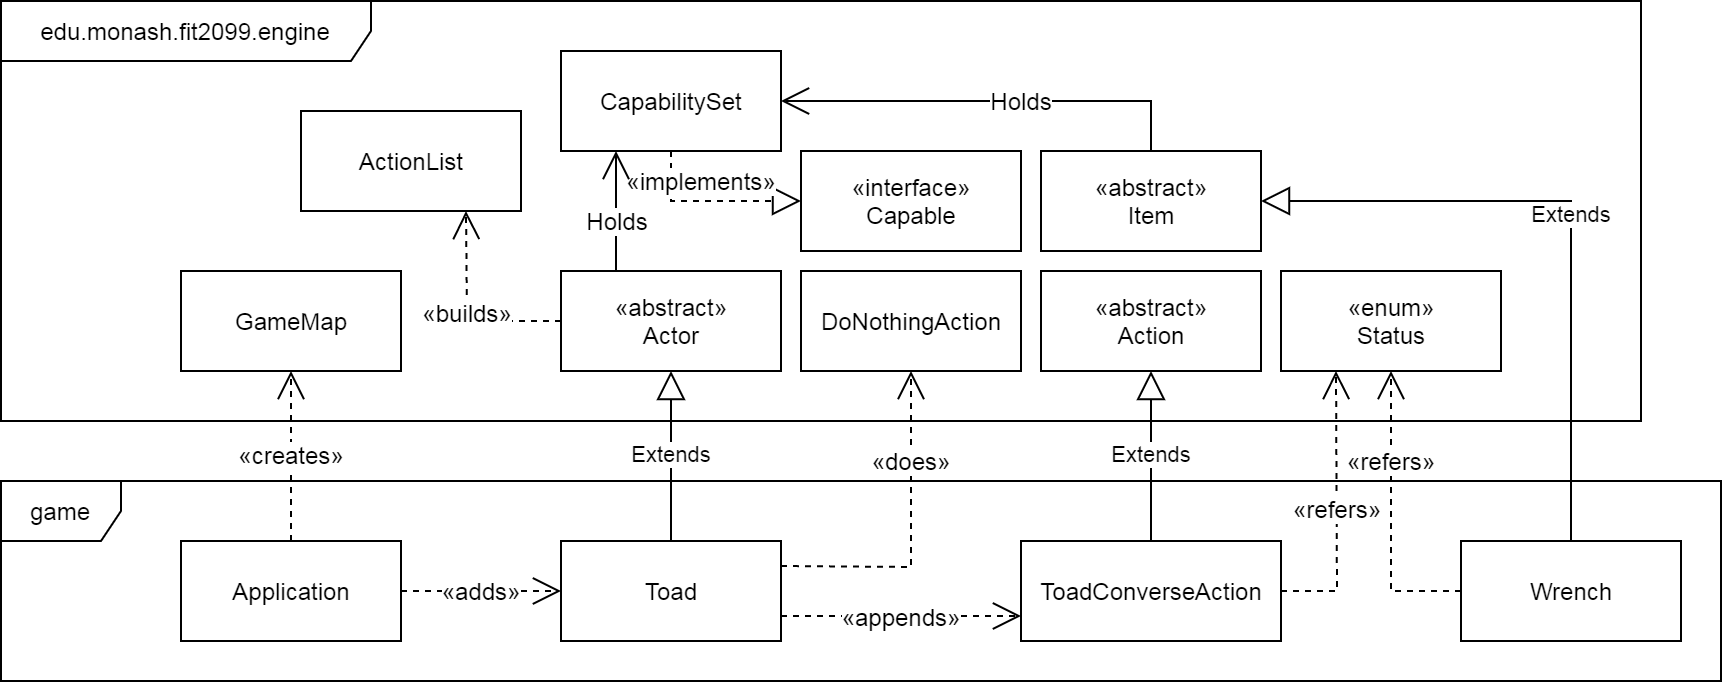
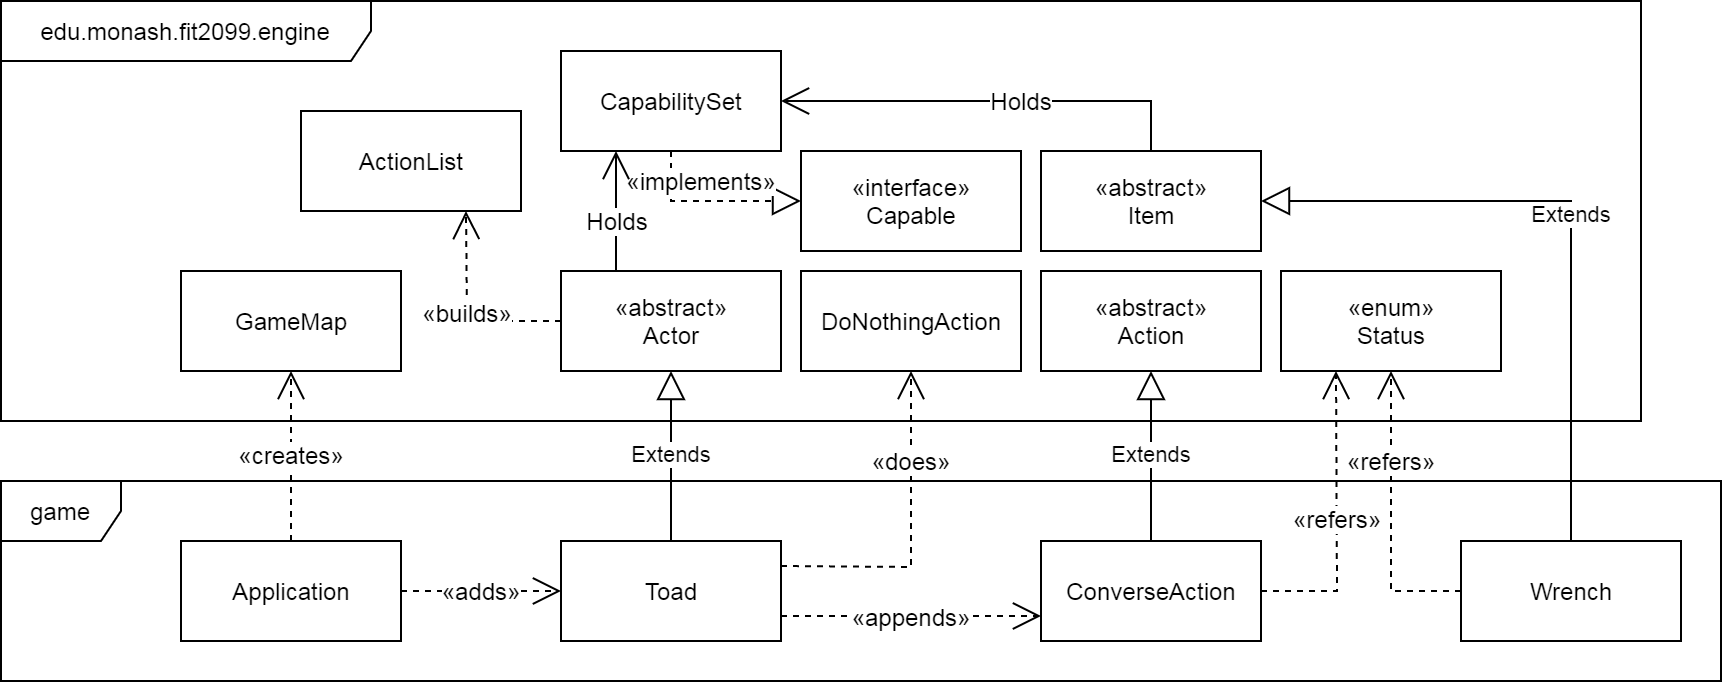
REQ5: add class diagram -- A1_REQ6: update class diagram

diff --git a/src/game/items/HandcuffKeys.java b/src/game/items/HandcuffKeys.java
@@ -1,6 +1,7 @@
 package game.items;
 
 import edu.monash.fit2099.engine.items.Item;
+import game.enums.Status;
 
 public class HandcuffKeys extends Item {
 
@@ -8,7 +9,8 @@ public class HandcuffKeys extends Item {
      * Constructor.
      */
     public HandcuffKeys(){
-        super("Keys to handcuffs", 'k', true); // TODO what char to use?
+        super("Handcuff Keys", 'k', true);
+        this.addCapability(Status.UNLOCKS_PEACH_HANDCUFFS);
     }
 
 }

diff --git a/src/game/interfaces/Talkable.java b/src/game/interfaces/Talkable.java
@@ -7,6 +7,11 @@ import edu.monash.fit2099.engine.positions.GameMap;
 import java.util.List;
 import java.util.Random;
 
+/**
+ * Interface for Actors capable of providing spontaneous dialog.
+ * <br> Uses an interface to implement default methods, emulating multiple inheritance of abstract
+ * classes in other languages.
+ */
 public interface Talkable {
 
     /**

diff --git a/src/game/enums/Status.java b/src/game/enums/Status.java
@@ -18,4 +18,5 @@ public enum Status {
     MOVE_TO_SECOND_MAP,
     INCREEASE_BASE_DAMAGE_BY_15, // increase actor base damage/intrinsic attack damage by 15
     DROP_FIRE_WHEN_ATTACK, // drops fire at target location when attacking
+    UNLOCKS_PEACH_HANDCUFFS, // allows action to unlock princess peach's handcuffs to win the game
 }

diff --git a/src/game/actors/PiranhaPlant.java b/src/game/actors/PiranhaPlant.java
@@ -34,7 +34,7 @@ public class PiranhaPlant extends Enemy {
 
     @Override
     public void followNewActor(Actor target) {
-    } // empty method callback, as this Enemy does not follow
+    } // override with empty method callback, as this Enemy does not follow
 
     @Override
     public void resetInstance() {

diff --git a/docs/Assignment3 Docs/A3_REQ5/notes.md b/docs/Assignment3 Docs/A3_REQ5/notes.md
@@ -1,0 +1,17 @@
+Talkable interface
+- String getDialog(List<String> opts) -- what's currently in TCA.execute(), actor to this
+- random choice, but always once after %2 turn, tracked in implementer itself (instantiation)
+
+PrincessPeach, Toad, Enemy implements Talkable
+- add the tick attr and if(tick)process logic
+
+Bowser, Goomba, Koopa, FlyingKoopa, PiranhaPlant extends Enemy
+- impls getDialog, return a pvsf immutable List.of vals on call, or builds it if Toad
+- for FlyingKoopa, create a mutable copy of pvsf list, add new vals, ret new list on call
+
+Application
+- static attr for Player
+
+ToadConverseAction -> ConverseAction
+- generalize action to work with all Talkables, but is still used only for Toad
+- name also changed in a1_req6

diff --git a/docs/work breakdown agreement.md b/docs/work breakdown agreement.md
@@ -19,6 +19,7 @@ Assignment 1 / 2
 
 Assignment 3
 - REQ2: by Ng Yen Kai (32217021)
+- REQ5: by Ng Yen Kai (32217021)
 
 ## Testing and Reviewing
 
